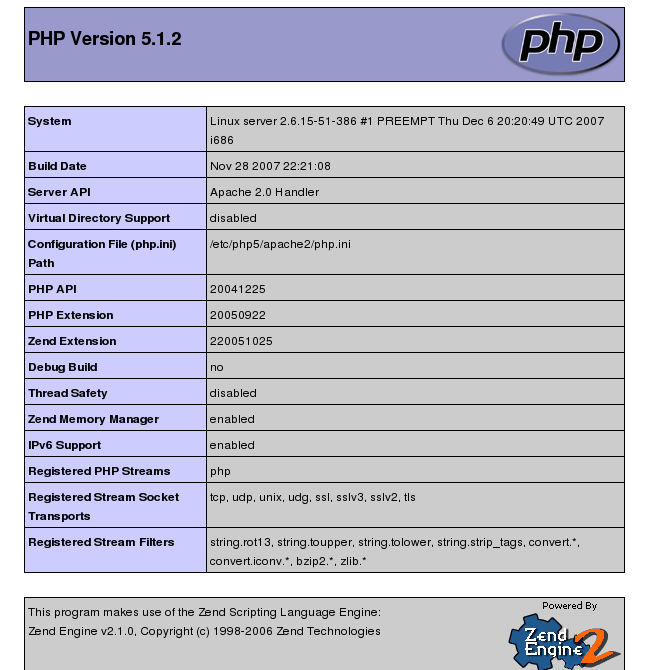
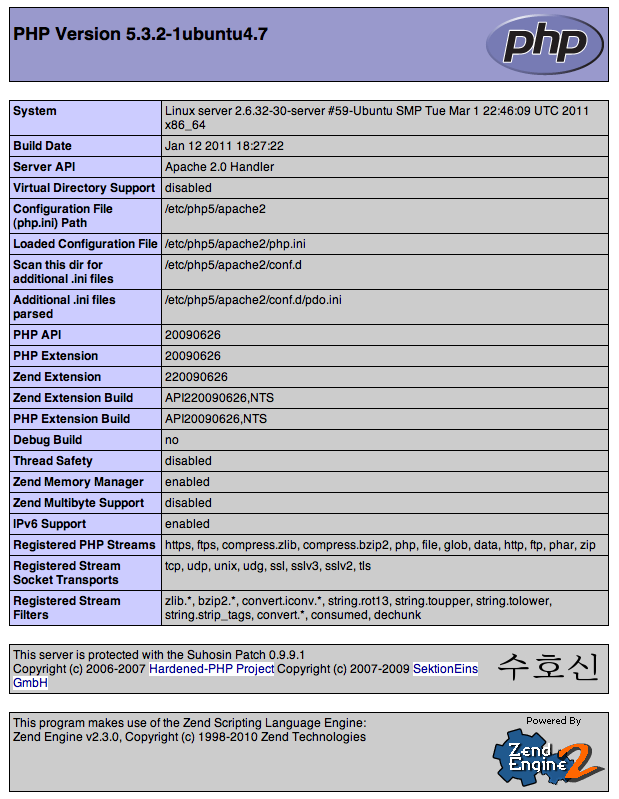
PHP Konfiguration überarbeitet

diff --git a/dienste.rst b/dienste.rst
@@ -513,7 +513,7 @@ Die Installation erfolgt mit:
 
 ::
 
-  sudo apt-get install php5 libapache2-mod-php5 php5-mysql php5-cgi php5-gd php5-mcrypt
+  sudo apt-get install php5
 
 Anschließend muss der Apache neu gestartet werden:
 
@@ -527,7 +527,7 @@ Erzeugen einer PHP-Datei im Hauptverzeichnis des Webservers:
 
 ::
 
-  sudo nano /srv/www/info.php
+  sudo nano /var/www/info.php
 
 
 In der Datei sollte folgendes stehen:
@@ -537,9 +537,8 @@ In der Datei sollte folgendes stehen:
     <?php phpinfo(); ?>
 
 Speichern und im Browser die Adresse
-http://192.168.0.254/info.php aufrufen worauf die folgende Seite
-(Abb. fig:phpinfo) zu sehen sein sollte (die Versionsnummer von PHP
-unter Ubuntu 10.04 ist zur Zeit 5.3.2):
+http://192.168.0.254/info.php aufrufen worauf die folgende Seite zu sehen sein sollte
+(die Versionsnummer von PHP unter Ubuntu 10.04.2 ist zur Zeit 5.3.2):
 
 .. figure:: images/phpinfo.png
     :align: center
